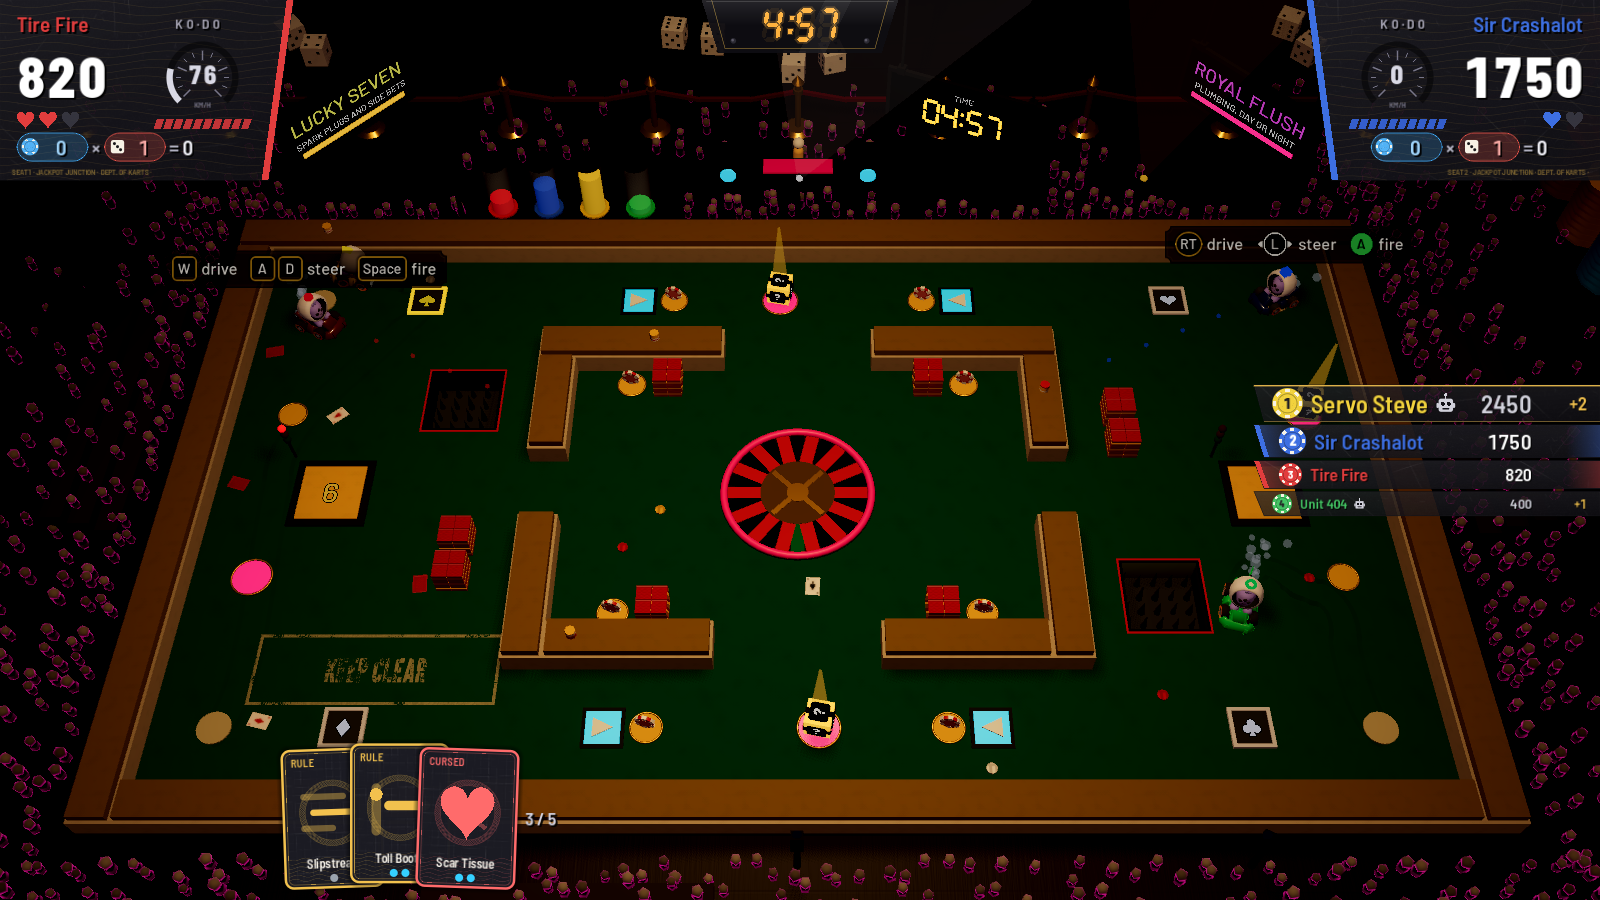
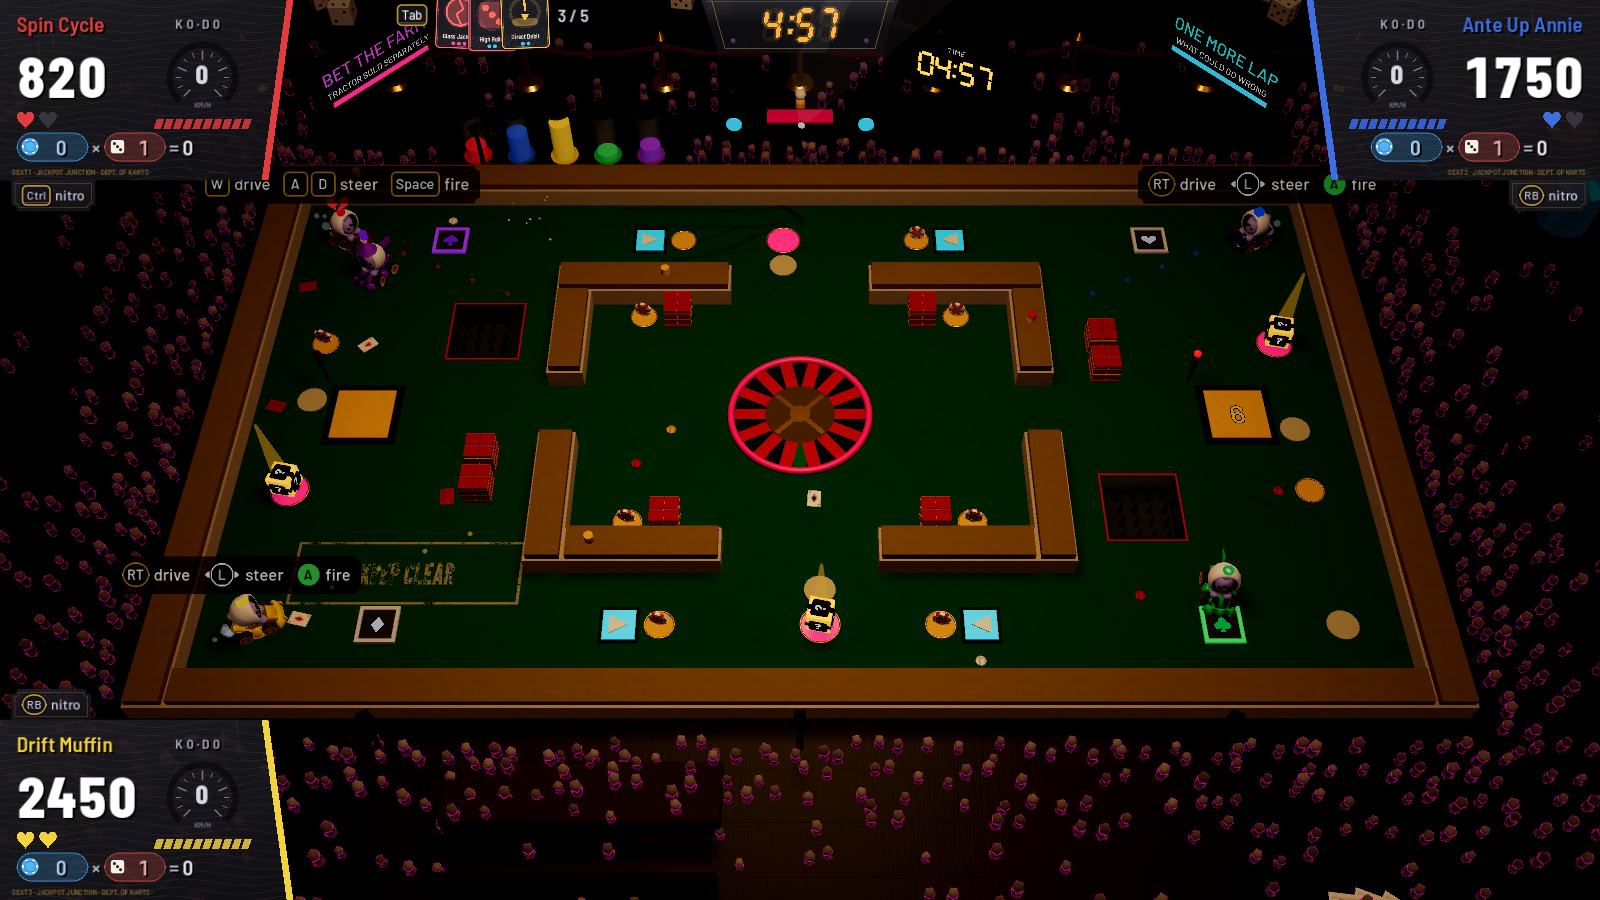
Retake The Vault for the README with three players at one screen
`++ --seats=3 --bots=2` at frame 420 as before: a corner each for the
three, the third's in the bottom left in yellow.

Claude-Session: https://claude.ai/code/session_01VMFaG88qPJdpAQCvaJMppX

diff --git a/README.md b/README.md
@@ -18,9 +18,9 @@ every milestone, and `CHANGELOG.md` what has changed in each release.
 
 Three arenas, three rooms to play them in, and an XL version of each with room to spare.
 
-![A dark card room with a green baize arena on the table in the middle of it, the only lit thing in the room. A roulette wheel of red and black pockets is let into the baize at the center, with stacks of red chips and fanned playing cards round the walls and dice on the cloth beyond them. Neon signs hang over a crowd reduced to shapes with light along their edges, and the match clock glows orange above the far edge. Two players share the screen: the first's dashboard is in the top left, in red, and the second's in the top right, in blue, each with their drive hint under it, the keyboard's and a gamepad's; the standings are strips off the right edge, the two bots in them marked with a robot's head, and the first player's hand of jokers is along the bottom](docs/the-vault.png)
+![A dark card room with a green baize arena on the table in the middle of it, the only lit thing in the room. A roulette wheel of red and black pockets is let into the baize at the center, with stacks of red chips and fanned playing cards round the walls and dice on the cloth beyond them. Neon signs hang over a crowd reduced to shapes with light along their edges, and the match clock glows orange above the far edge. Three players share the screen, a corner each: the first's dashboard is in the top left, in red, the second's in the top right, in blue, and the third's in the bottom left, in yellow, each with their drive hint beside it, the keyboard's and two gamepads'; the first player's hand of jokers is tucked small along the top beside their corner](docs/the-vault.png)
 
-*The Vault, After Hours, two players at one screen.*
+*The Vault, After Hours, three players at one screen.*
 
 ![A concrete yard in late afternoon light seen from high above, with a far bigger arena marked out on it than the usual map: two long stepped walls of pale blocks curve toward each other across it, a pit edged in black and yellow hazard stripes sits in each of their bends, and a disc bordered in the same stripes lies in the open middle, with karts small against all that floor. The crowd fills stepped tribunes on every side, with a truck, stacked drums and a forklift beyond them, and lit hoardings and the match clock along the far edge. Beside the clock at the top hangs a slim scrap of paper with a red map pin: the bet the player has pinned in the loyalty program, The Cashier's Cage, 17 of 25 cash-outs along a little road filling in gold. The player's hand is along the bottom](docs/crossfire-xl.png)
 
